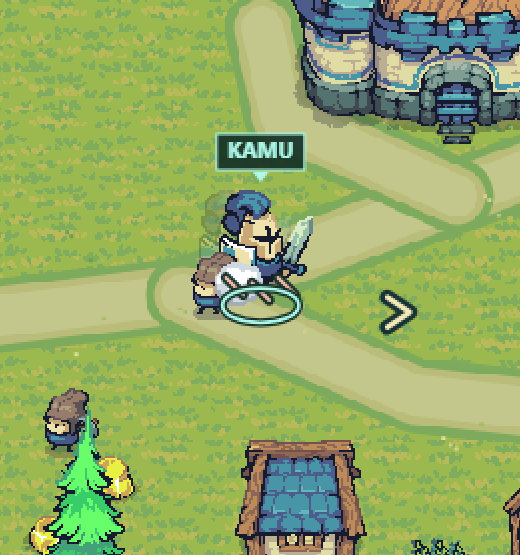
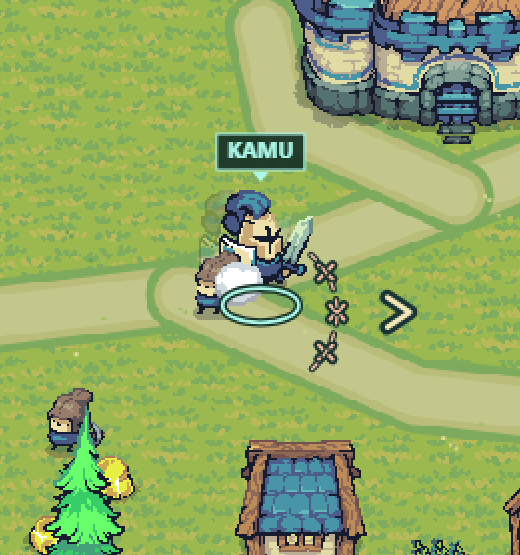
test: verify Triple Slash HUD visuals and dash cancellation

Changed region(s): [[0.0615, 0.6739, 0.2462, 1.0], [0.3692, 0.4288, 0.6769, 0.6739]]

diff --git a/src/triple-slash-visual.js b/src/triple-slash-visual.js
@@ -39,16 +39,17 @@
     return {sequence:snapshot.sequence,slashIndex:snapshot.slashIndex,phase,origin:{...origin},
       angle,reach,radius,halfAngle,backAllowance,from:-halfAngle,to:edge,color,trails:index+1};
   }
-  function drawCancellation(ctx,origin,progress){
-    const alpha=Math.max(0,1-progress),distance=24+progress*15;
-    ctx.save();ctx.translate(origin.x,origin.y);ctx.globalAlpha=alpha;ctx.lineCap='round';
+  function drawCancellation(ctx,origin,progress,angle=0){
+    const alpha=Math.max(0,1-progress),distance=44+progress*18;
+    ctx.save();ctx.translate(origin.x,origin.y);ctx.rotate(angle);ctx.globalAlpha=alpha;ctx.lineCap='round';
     for(let i=0;i<3;i++){
-      const x=(i-1)*15,y=-10-Math.abs(i-1)*3;
-      ctx.beginPath();ctx.moveTo(x-5,y-7);ctx.lineTo(x+5,y+3);
+      const direction=(i-1)*.55,x=Math.cos(direction)*distance,y=Math.sin(direction)*distance;
+      ctx.beginPath();ctx.moveTo(x-4,y-4);ctx.lineTo(x+4,y+4);ctx.moveTo(x+4,y-4);ctx.lineTo(x-4,y+4);
       ctx.strokeStyle='#17312e';ctx.lineWidth=6;ctx.stroke();
       ctx.strokeStyle='#f5bea3';ctx.lineWidth=2;ctx.stroke();
     }
-    ctx.setLineDash([4,6]);ctx.beginPath();ctx.ellipse(0,-3,distance,distance*.42,0,0,Math.PI*2);
+    ctx.setLineDash([4,6]);ctx.beginPath();ctx.arc(0,0,distance,-.85,.85);
+    ctx.strokeStyle='#17312e';ctx.lineWidth=4;ctx.stroke();
     ctx.strokeStyle='#f5bea3';ctx.lineWidth=1.5;ctx.stroke();ctx.restore();
   }
   M.TripleSlashHud=class TripleSlashHud {

diff --git a/src/renderer.js b/src/renderer.js
@@ -246,11 +246,11 @@
           renderer.lastTripleSlashVisual=M.TripleSlashFx.drawSlash(host.ctx,view,combat.swingAngle(view.slashElapsed),assetStore.img('Particle FX/Water Splash.png'));
       }
       if(view.status==='cancelled'){
-        if(renderer.tripleCancel?.sequence!==view.sequence)renderer.tripleCancel={sequence:view.sequence,cooldown:view.cooldownRemaining,origin:{...view.hitArea.origin}};
+        if(renderer.tripleCancel?.sequence!==view.sequence)renderer.tripleCancel={sequence:view.sequence,cooldown:view.cooldownRemaining,origin:{...view.hitArea.origin},angle:view.hitArea.angle};
         const age=Math.max(0,renderer.tripleCancel.cooldown-view.cooldownRemaining);
         if(age<.24){
-          M.TripleSlashFx.drawCancellation(host.ctx,renderer.tripleCancel.origin,age/.24);
-          renderer.lastTripleCancelVisual={origin:{...renderer.tripleCancel.origin},reason:view.cancelReason,age};
+          M.TripleSlashFx.drawCancellation(host.ctx,renderer.tripleCancel.origin,age/.24,renderer.tripleCancel.angle);
+          renderer.lastTripleCancelVisual={origin:{...renderer.tripleCancel.origin},angle:renderer.tripleCancel.angle,reason:view.cancelReason,age};
         }
       }else renderer.tripleCancel=null;
     };

diff --git a/docs/triple-slash-visual.md b/docs/triple-slash-visual.md
@@ -2,6 +2,17 @@
 
 Baseline `f193d59`, branch `codex/triple-slash-visual`. Kontrak Chat 1:
 `ab67626:docs/triple-slash-interface.md`, branch `codex/triple-slash-combat`.
+Runtime final Chat 1 **4cbc169** digabung melalui **cecc006**. Entry point akhir
+memuat `src/triple-slash.js` sebelum combat. Seluruh dependency ada di worktree
+ini; tidak ada referensi produksi ke worktree Chat 1 atau fixture.
+
+## Mencoba
+
+Buka `index.html` langsung lewat file:// atau server HTTP. Mulai Ekspedisi atau
+Latihan Map 2, lalu naikkan Bilah Bara ke tingkat 10 lewat U pada jeda. Slot Q
+berubah dari **Bilah tingkat 10** menjadi **Siap** setelah kembali bermain.
+Arahkan mouse, tekan Q, dan perhatikan tiga pips/progres. Shift membatalkan sisa
+combo; cooldown tetap terpakai. Bekal memakai H atau tombol Isi tenaga.
 
 ## Keputusan visual
 
@@ -35,7 +46,8 @@ tetap dilewati. PNG asli tidak dimodifikasi, badan tetap tajam dan tegak.
   Cache jenis attack hanya metadata presentasi, bukan state skill.
 - Slot desktop Q menampilkan syarat Bilah tingkat 10, Siap, cooldown, atau progres
   1–2–3. Tombol memanggil `combat.requestTripleSlash()`, tanpa menulis timer atau rank.
-- Pembatalan menampilkan tiga garis patah dan lingkaran terputus selama 0,24 detik
+- Pembatalan menampilkan tiga silang patah dan busur terputus di luar cincin kaki,
+  mengikuti sumbu tebasan terakhir, selama 0,24 detik
   presentasi. Umurnya diturunkan dari penurunan cooldown snapshot sejak cancel,
   sehingga ikut membeku saat pause. Tidak ada setTimeout atau timer hit di visual.
 - HUD menampilkan Dibatalkan bersama sisa cooldown; cooldown tetap milik combat.
@@ -43,7 +55,83 @@ tetap dilewati. PNG asli tidak dimodifikasi, badan tetap tajam dan tegak.
   mengikuti binding ini. Slot disembunyikan di judul/hasil dan pada layout mobile.
 - Slot dicadangkan sebagai rectangle overlay agar label/angka tidak menutupi HUD.
 
-`tests/fixtures/triple-slash-visual-fixture.js` mengikuti POJO kontrak dan hanya
-dimuat oleh tes eksplisit `--fixture`; tidak ada grant rank atau fixture pada
-entrypoint produksi. Hasil uji aktual dan screenshot akhir dicatat setelah
-commit runtime Chat 1 diintegrasikan.
+`tests/fixtures/triple-slash-visual-fixture.js` mengikuti POJO kontrak. Hanya mode
+tes eksplisit `--fixture` yang mengganti port snapshot/command dengan fixture;
+mode default menuntut runtime nyata. POJO fixture juga dipakai untuk probe raster
+geometri murni. Tidak ada grant rank atau fixture pada entrypoint produksi.
+
+## Hasil pemeriksaan akhir
+
+Dijalankan pada 5 November 2026 setelah integrasi runtime final, Node 24/Chrome:
+
+```powershell
+node tests/triple-slash-visual-browser-test.mjs --screenshots docs/triple-slash-screenshots
+node tests/triple-slash-visual-browser-test.mjs --fixture
+node tests/triple-slash-test.mjs
+node tests/mouse-combat-test.mjs
+node tests/mouse-combat-browser-test.mjs
+node tests/mouse-combat-visual-browser-test.mjs
+node tests/camera-test.cjs
+node tests/menu-browser-test.mjs
+```
+
+Browser suite memakai Chrome lokal, tanpa npm dependency atau jaringan luar;
+CHROME_PATH dapat menunjuk executable lain. Profil sementara dibuang setelah tes.
+Scene dibuat deterministik: RAF dihentikan, target dipin dan simulation.update
+asli dijalankan pada dt=1/60. Gambar merupakan hasil renderer/HP aktual, bukan
+playtest manusia atau hasil pertandingan penuh.
+
+| Pemeriksaan | Hasil |
+| --- | --- |
+| Desktop | 1280×720 DPR 1, 1440×900 DPR 1,25, 1920×1080 DPR 2: lulus |
+| Geometri efek | 44.817 sampel tiap viewport, **134.451 total** pada mode aktual. Enam sumbu termasuk non-kardinal × tiga gaya × tiga waktu kontak; raster berwarna cocok dengan combat.swingContact di area bebas. Tepi antialias dilewati |
+| Hit aktual | 8 arah × 3 tebasan × 3 viewport = **72 tebasan**. Satu target 60 px di depan menerima 77 per kontak: HP 1000 → 923 → 846 → 769 |
+| Urutan | SlashIndex/phase/origin/angle/reach/radius dari snapshot sama dengan metadata gambar; tiga warna/1–2–3 jejak, dan pose Attack2 pada tebasan II, lulus |
+| Fixture | Seluruh viewport dan probe geometri juga lulus dalam --fixture. Ini memverifikasi visual sebelum runtime tersedia tanpa mengganti source runtime |
+| Unlock/kontrol | Rank 9 menampilkan Bilah tingkat 10 dan menolak Q tanpa heal/food/CD; H memulihkan 45 HP dengan satu bekal. Rank 10 menampilkan Siap |
+| HUD command | Tombol Q memanggil port yang sama; dua click berturut tetap satu sequence dan satu cooldown 8 detik |
+| Progres/cooldown | Progres dan pips mengikuti state 1/2/3, lalu disembunyikan pada selesai/cancel. Cooldown datang dari snapshot; render berulang tidak memajukan/mengubah state |
+| Koreksi arah | Arah terkunci selama kontak. Tebasan berikutnya menerima koreksi maksimal 30° dan gambar memakai sudut hasil koreksi |
+| Dash cancel | Sesudah hit I, dash menghapus efek skill dan basic-ghost; hit II/III tidak terjadi. Garis patah muncul singkat lalu hilang; cooldown tetap tersisa |
+| Pause/upgrade | Snapshot dan progres membeku. HUD tetap terbaca dengan tombol disabled; menutup dialog dan resume meneruskan runtime |
+| Resize | Arena aktif diubah ke 1100×1000 DPR 1,25, 1920×1080 DPR 2, 1280×720; slot di dalam arena, sudut/phase/CD tidak berubah oleh resize |
+| Kamera X/Y | Fixture koordinat 4096×3072 memindahkan kamera dan origin saat skill aktif; gambar memakai origin kaki baru, tanpa tick tambahan atau pengujian collision World lama pada koordinat besar |
+| Banyak musuh/bangunan | 13 musuh legal di sekitar kastel; target di balik collider tetap 1000 HP. Cap ≤5 per slash, queue impact/floater/label tetap dalam batas existing. Screenshot dievaluasi untuk kontras busur dan label pemain |
+| Core | 80 pemeriksaan Triple Slash dan 823 pemeriksaan mouse melee: lulus |
+| Browser entry normal | file:// DPR 1 dan HTTP DPR 2, termasuk beli rank 9/10 dari camp, repeat/gate/counter/cancel/cover/restart: lulus |
+| Regresi visual Tahap 3 | 49.578 sampel per viewport dan seluruh skenario aim/pose/pause/camera: lulus |
+| Regresi lain | Kamera serta menu keyboard/touch/touch-small/touch-landscape, carry emas/keenam rank dan fresh practice: lulus |
+
+Suite visual berakhir dengan **nol exception JavaScript dan nol aset gagal dimuat**.
+Screenshot final diambil dari index.html lokal, viewport CSS 1440×900 DPR 1,25.
+Detail/HUD memakai clip browser scale 2; sprite asli tidak diedit.
+
+## Screenshot
+
+| Urutan | Area dan pose | HUD |
+| --- | --- | --- |
+| I — gading | [Tebasan I](triple-slash-screenshots/sequence-1-detail.png) | [Progres 1/3](triple-slash-screenshots/hud-sequence-1.png) |
+| II — mint | [Tebasan II](triple-slash-screenshots/sequence-2-detail.png) | [Progres 2/3](triple-slash-screenshots/hud-sequence-2.png) |
+| III — putih sian | [Tebasan III](triple-slash-screenshots/sequence-3-detail.png) | [Progres 3/3](triple-slash-screenshots/hud-sequence-3.png) |
+
+| Pemeriksaan | Screenshot |
+| --- | --- |
+| HUD sebelum/sesudah unlock | [Terkunci](triple-slash-screenshots/hud-locked.png), [Siap](triple-slash-screenshots/hud-ready.png), [Cooldown](triple-slash-screenshots/hud-cooldown.png) |
+| Dash membatalkan combo | [Area](triple-slash-screenshots/dash-cancel-detail.png), [HUD](triple-slash-screenshots/hud-cancel.png) |
+| Empat arah utama | [Atas](triple-slash-screenshots/direction-up.png), [Bawah](triple-slash-screenshots/direction-down.png), [Kiri](triple-slash-screenshots/direction-left.png), [Kanan](triple-slash-screenshots/direction-right.png) |
+| Diagonal/koreksi | [Kiri bawah](triple-slash-screenshots/direction-down-left.png), [Koreksi 30°](triple-slash-screenshots/bounded-turn-detail.png) |
+| Kerumunan dekat kastel | [Detail](triple-slash-screenshots/crowd-castle-detail.png), [Arena penuh](triple-slash-screenshots/crowd-castle.png) |
+| Dialog upgrade | [HUD di belakang dialog](triple-slash-screenshots/upgrade-dialog.png) |
+
+## Batas visual dan playtest berikutnya
+
+Body Warrior masih hanya dua arah. Pose Attack2 membedakan tebasan II, tetapi tidak
+menjadi animasi tubuh atas/bawah/diagonal. Frame kontak tertanam tetap dihindari;
+busur dan chevron menjadi acuan arah. Footprint menggambarkan potensi geometri,
+sementara cover, cap sasaran dan hit yang sudah terpakai tetap diputuskan combat.
+Efek belum menggambar shadow mask dari collider bangunan; HP target cover pada
+fixture tetap terlindungi.
+
+Durasi koreksi, jeda recovery 0,02 detik, rasa tiga pose dan keterbacaan angka saat
+combat ramai memerlukan playtest manusia. Tidak ada tuning damage, harga, musuh,
+mining, rank maksimum atau penyimpanan/carry cooldown yang dilakukan renderer.

diff --git a/README.md b/README.md
@@ -10,6 +10,10 @@ Klik dua kali **Mainkan.cmd** atau buka **index.html** di browser. Seluruh aset 
 
 Folder gambar dipertahankan karena dipakai oleh permainan dan galeri aset. Audio sudah tertanam di audio-pack.js. Kredit audio ada di folder credits.
 
+Slot desktop **Q — Triple Slash** menampilkan syarat Bilah tingkat 10, progres tiga
+tebasan dan cooldown. Visual/HUD serta hasil tes ada di
+[docs/triple-slash-visual.md](docs/triple-slash-visual.md).
+
 Bidikan desktop: arahkan mouse di arena untuk membidik 360°, lalu klik kiri atau
 tahan Spasi untuk menyerang. WASD/panah tetap menggerakkan pemain; chevron di tanah
 menunjukkan arah efektif. Arah strike terkunci sampai kontak selesai. Audit pose,
